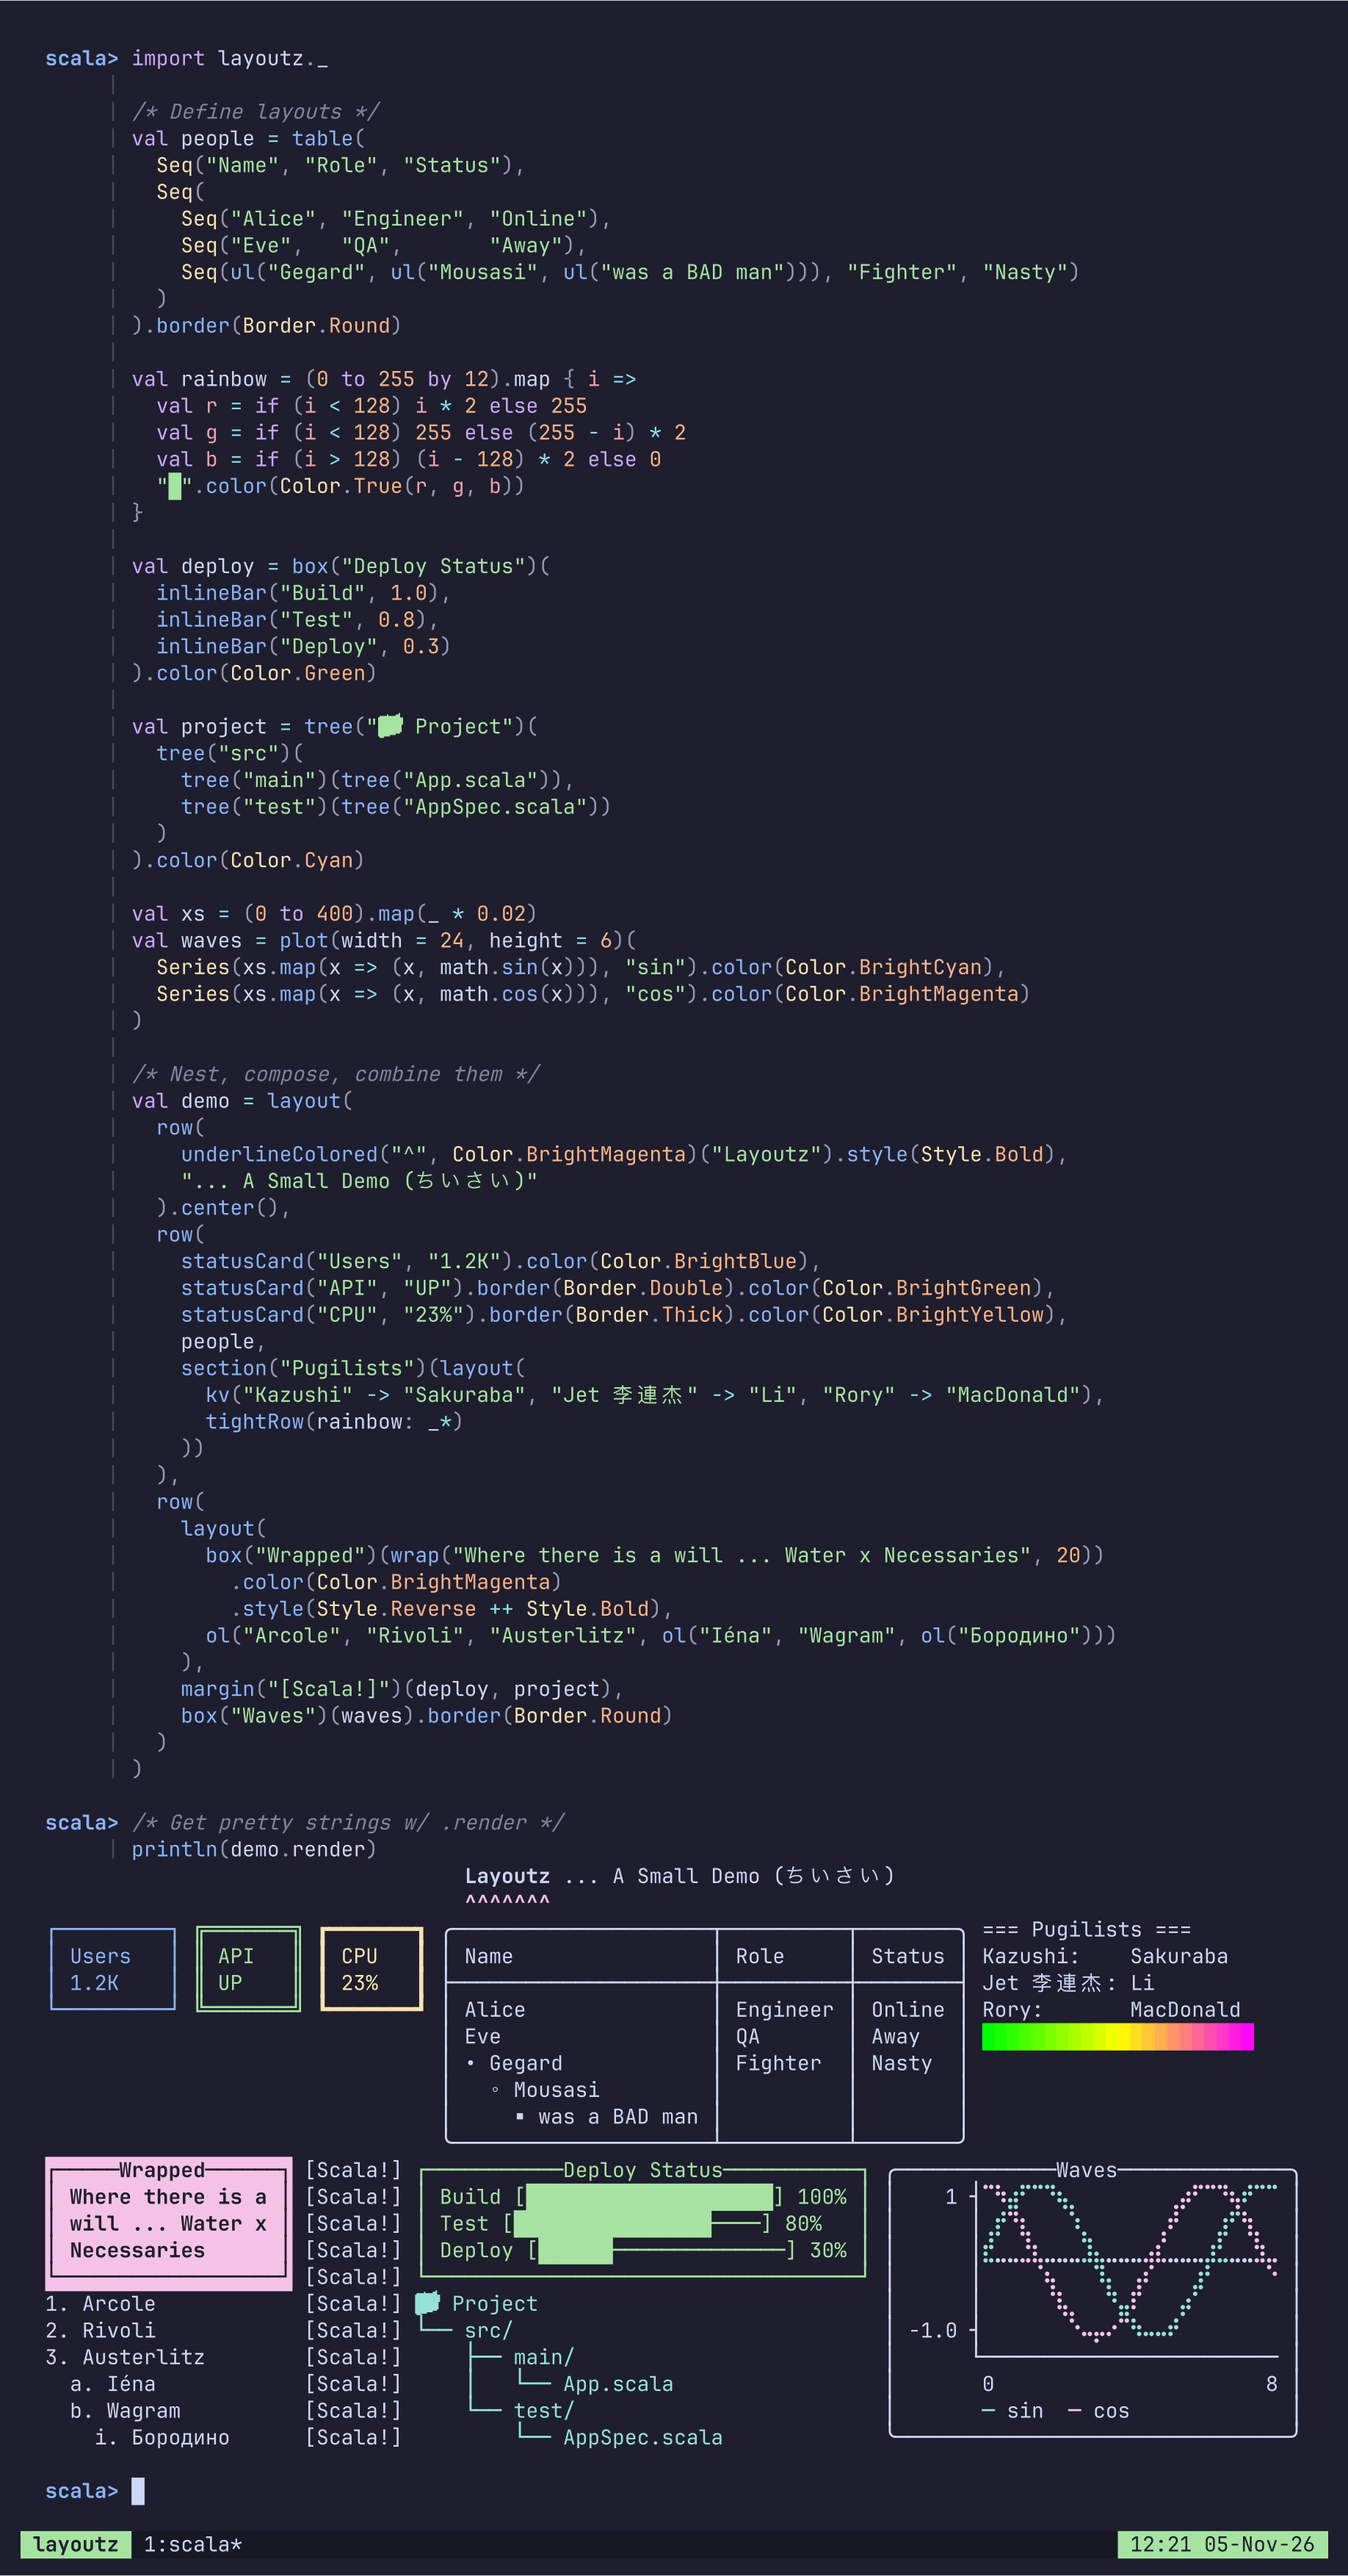
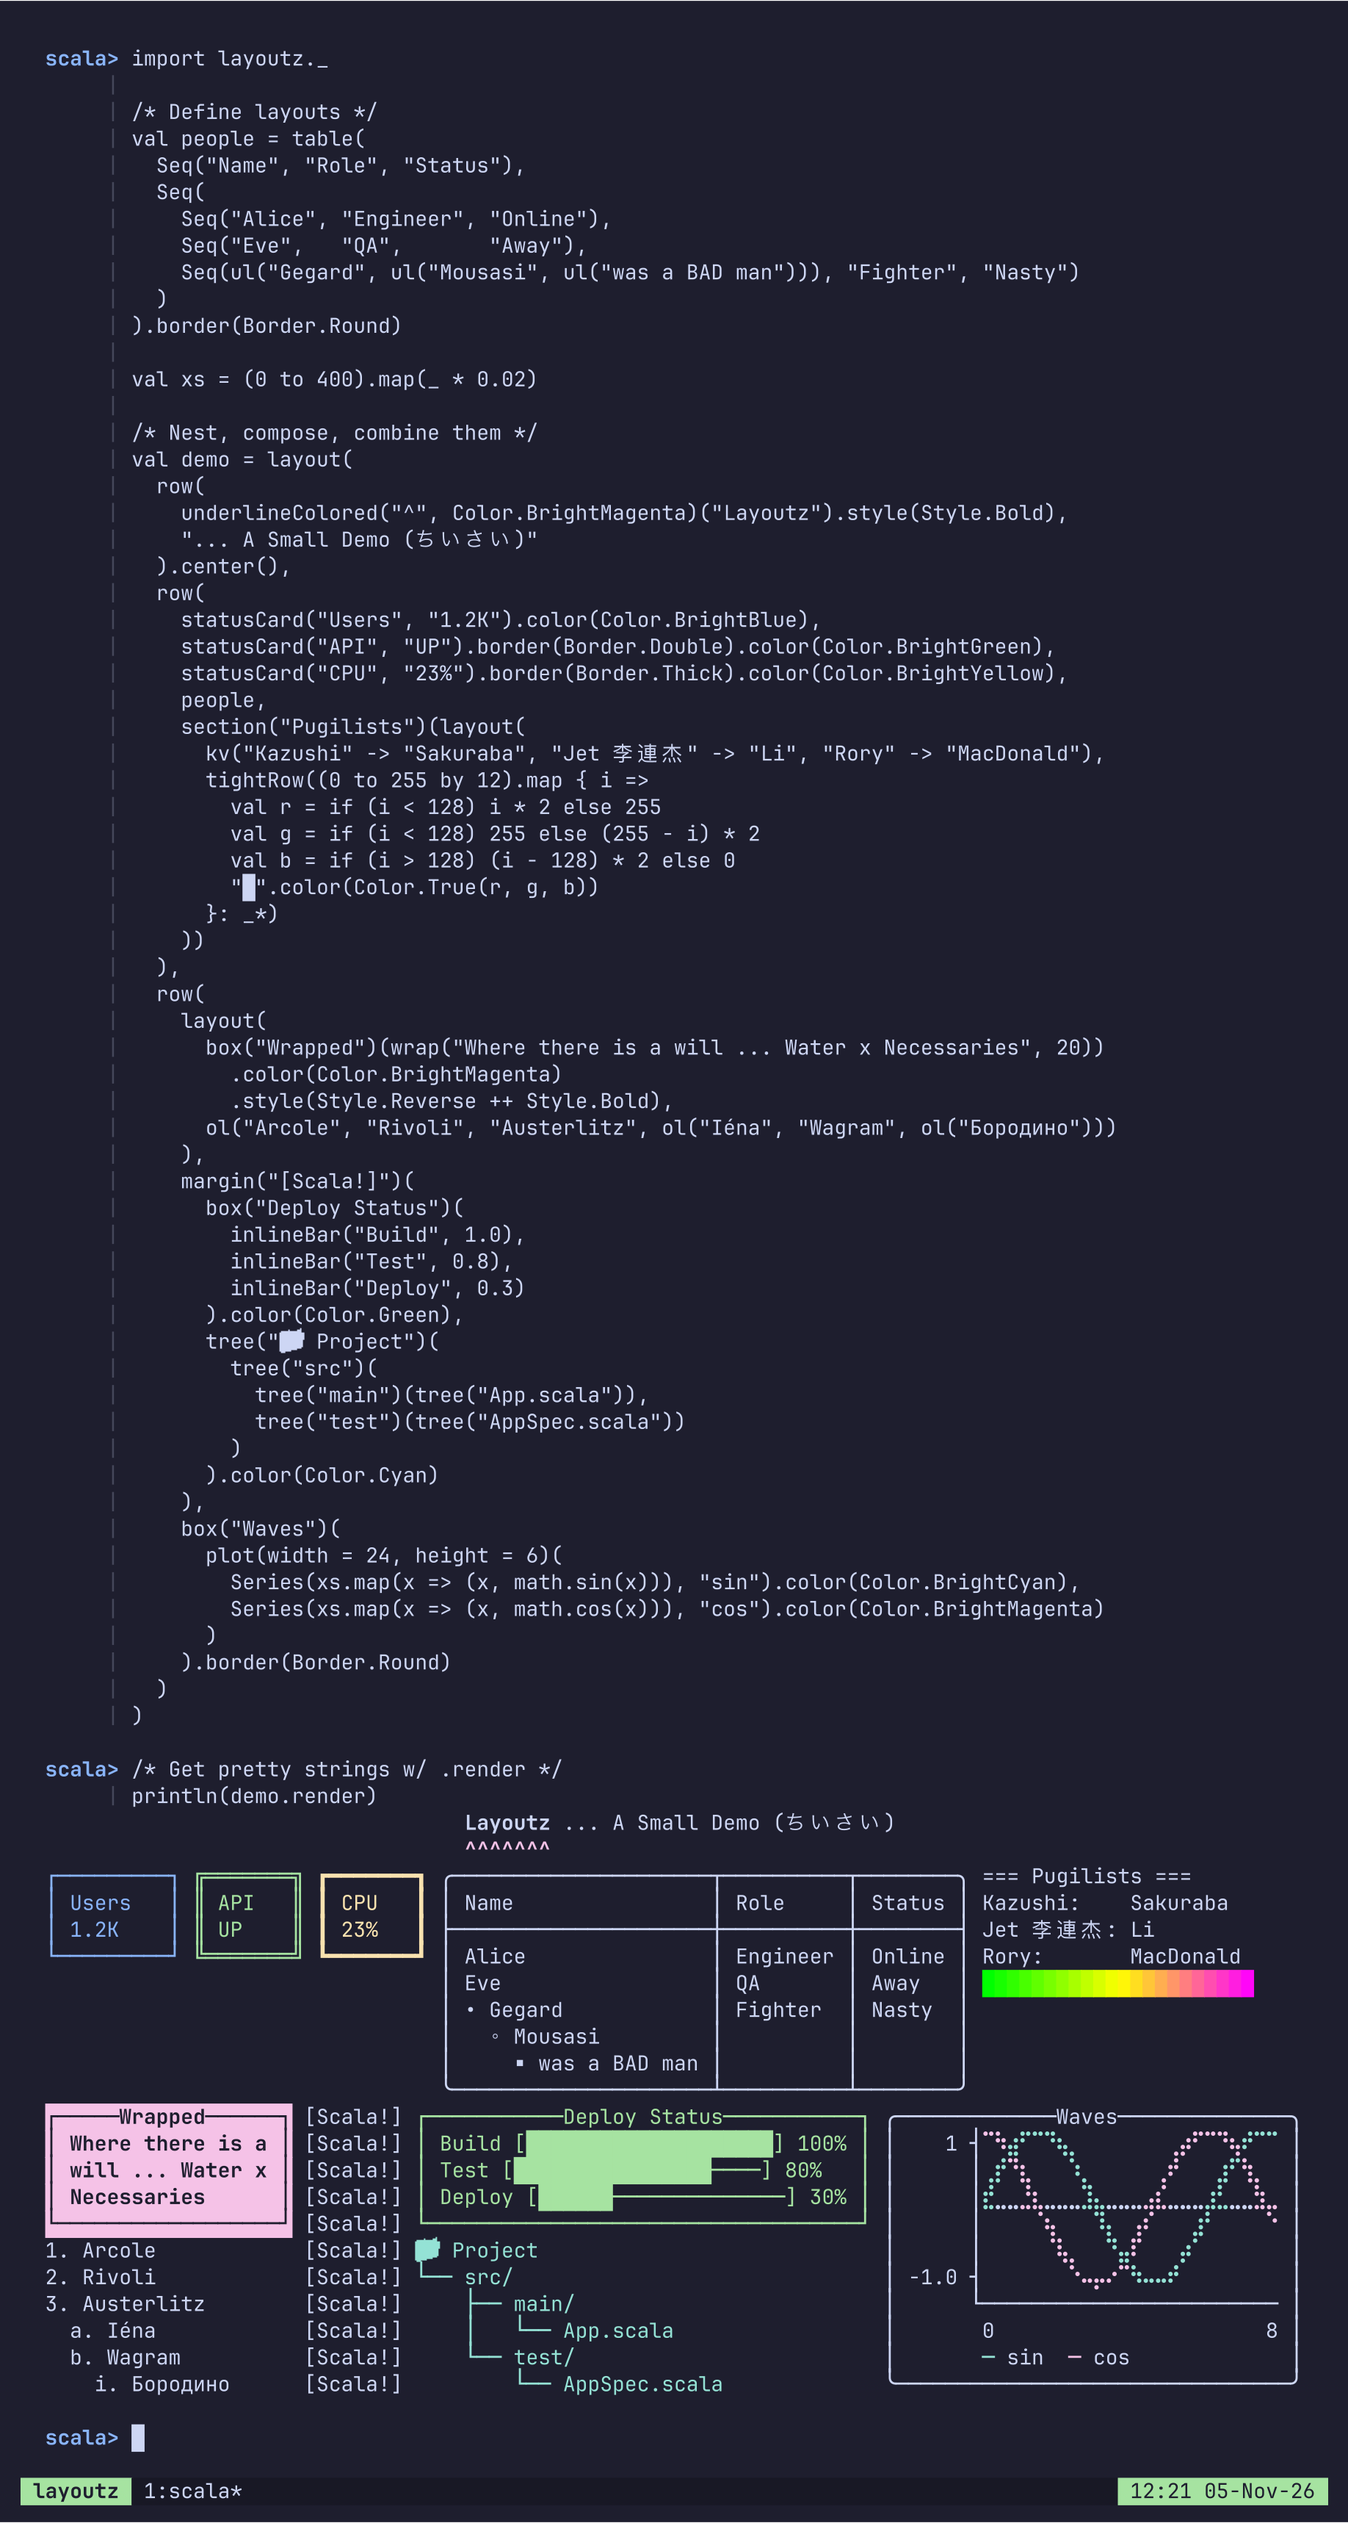
update doc

diff --git a/demos/shots/render.py b/demos/shots/render.py
@@ -231,7 +231,7 @@ def repl_screen(code, output):
     def entry(block):
         while block and not block[-1].strip():
             block = block[:-1]
-        return ['  ' + (ps2 if i else ps1) + highlight(l, None) for i, l in enumerate(block)]
+        return ['  ' + (ps2 if i else ps1) + esc(TEXT) + l for i, l in enumerate(block)]
 
     # The println and the comment above it go in a second entry.
     split = max(i for i, l in enumerate(code) if not l.strip())

diff --git a/README.md b/README.md
@@ -2,11 +2,7 @@
   <sub><em>part of <a href="https://github.com/mattlianje/cabinet6"><img src="https://raw.githubusercontent.com/mattlianje/cabinet6/master/pix/d4.png" width="20" align="top" hspace="4">c6</a></em></sub>
 </div>
 
-<p align="center">
-  <img src="https://raw.githubusercontent.com/mattlianje/cabinet6/refs/heads/master/pix/layoutz_with_github.png" width="250">
-</p>
-
-# layoutz
+# <img src="https://raw.githubusercontent.com/mattlianje/layoutz/refs/heads/master/pix/layoutz.png" width="60"> layoutz
 
 **Simple, beautiful CLI output 🪶**
 
